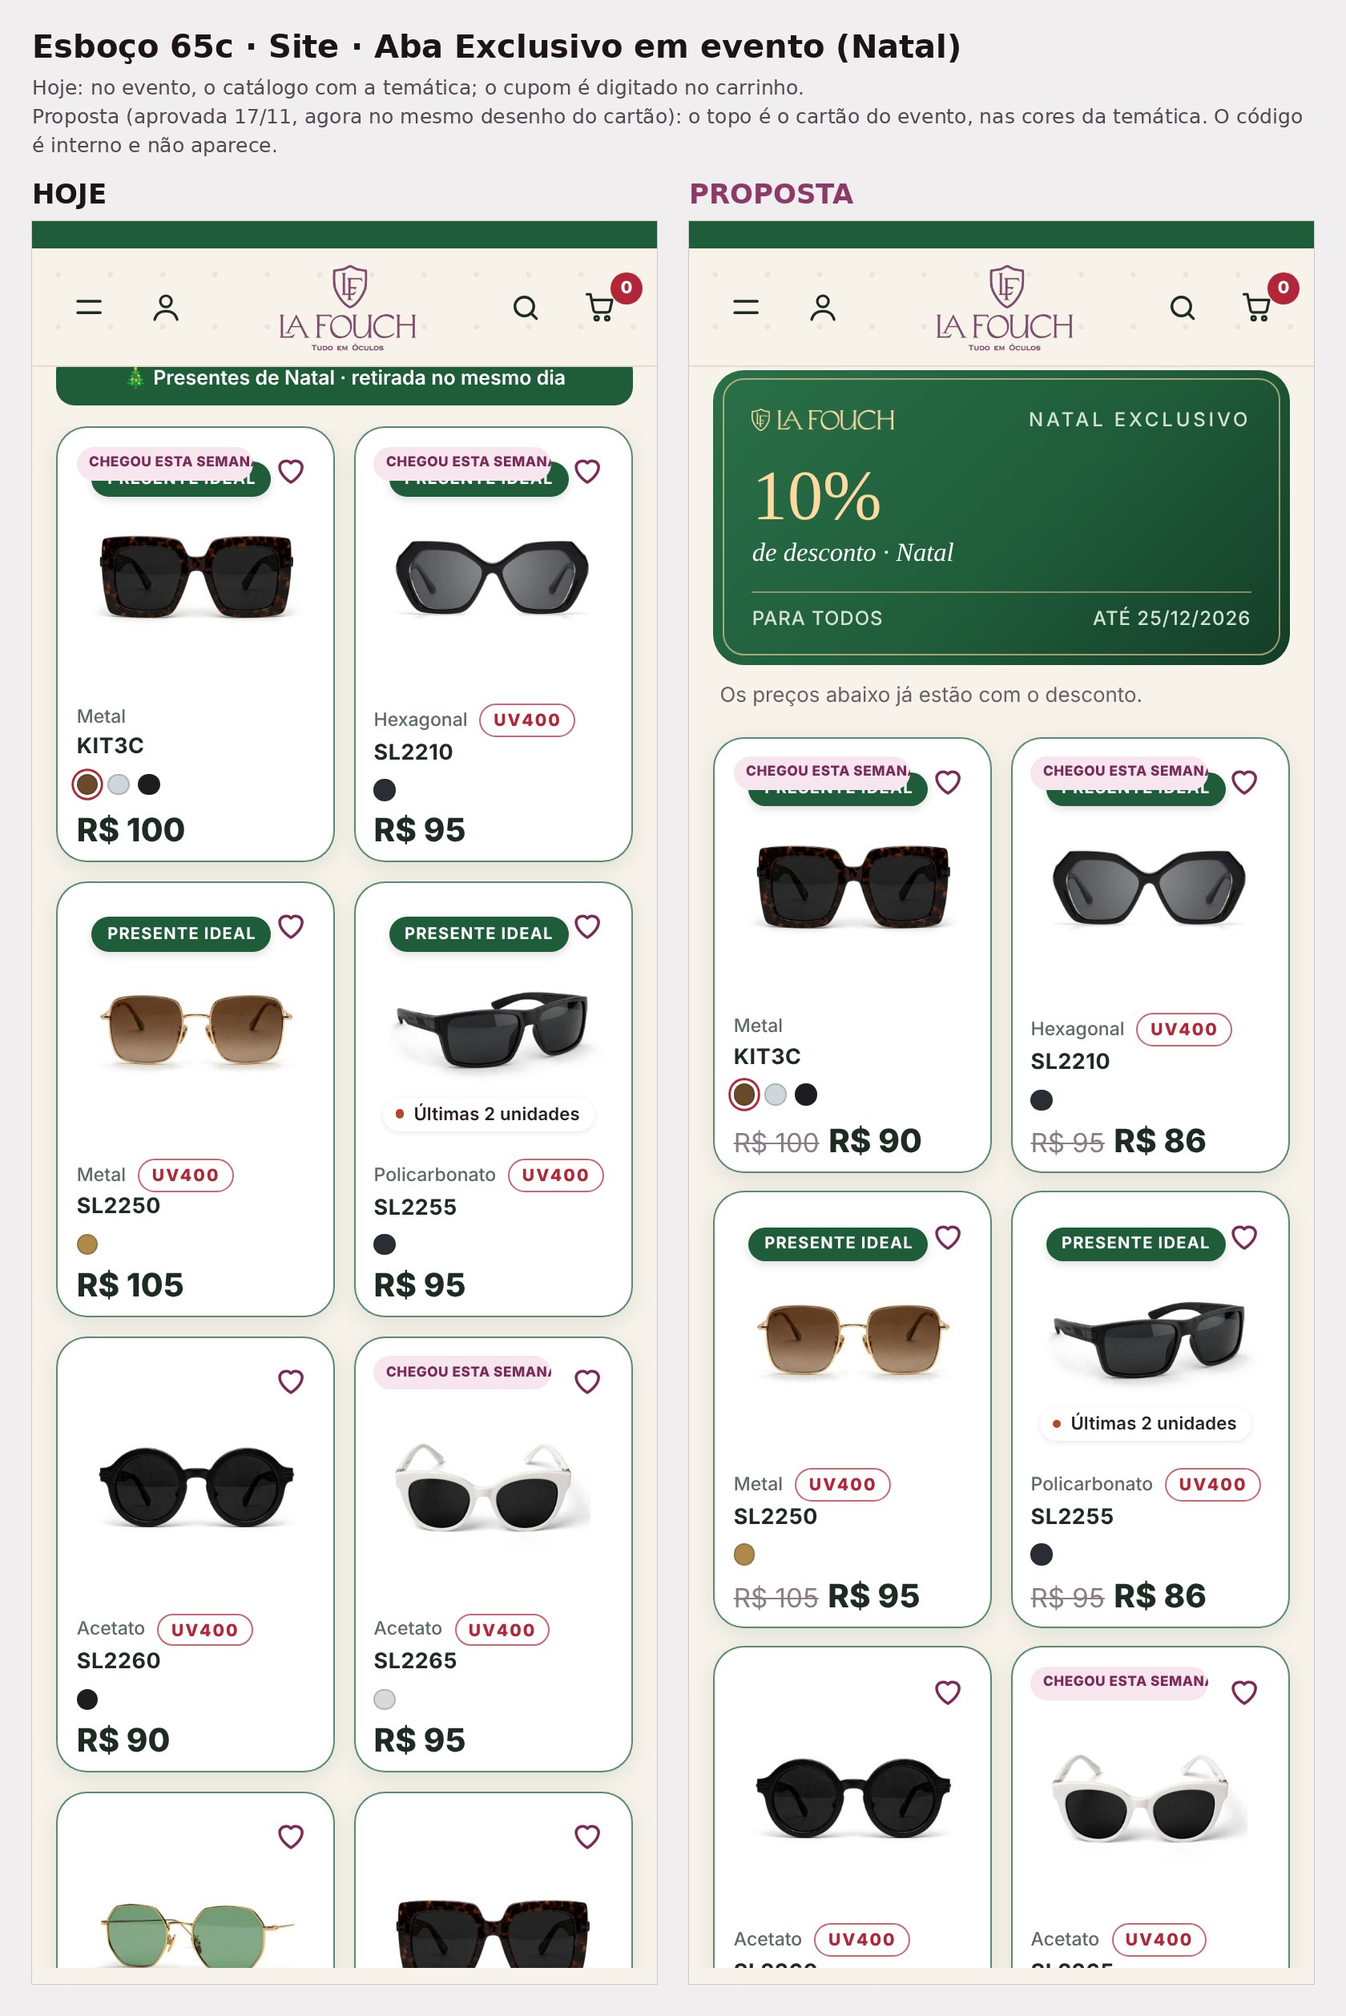
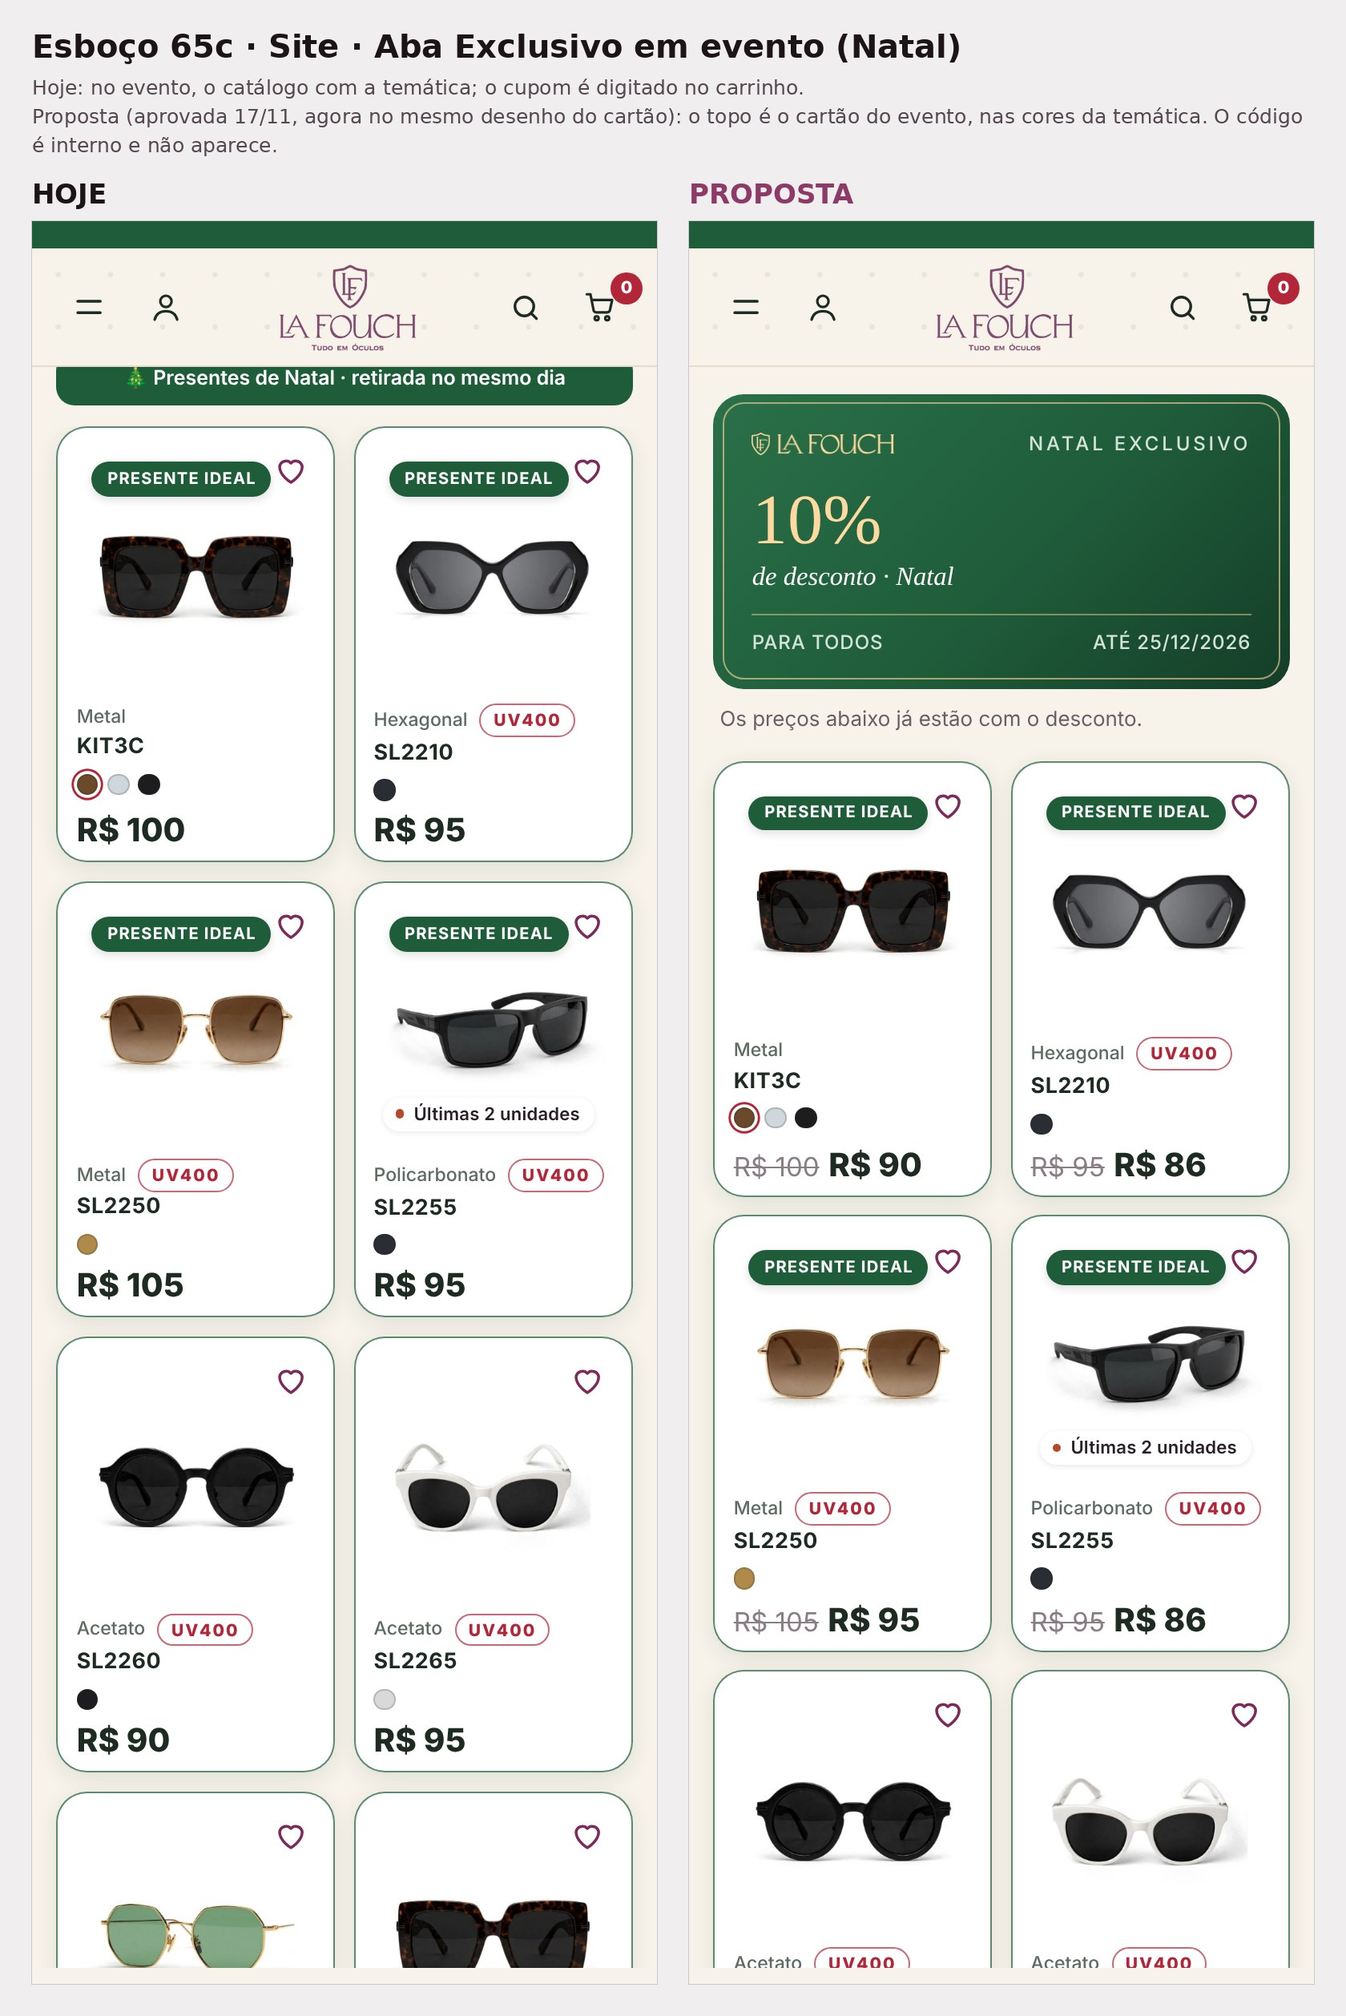
Esboços 66a–66f: prateleira Exclusivo, vários cupons, cupom aplicado sozinho, casos do carrinho
Claude-Session: https://claude.ai/code/session_01Vj5GPR2QjandaFr6ascRKC

diff --git a/work/s401/esb5.py b/work/s401/esb5.py
@@ -1,0 +1,41 @@
+# S401 · esboços 66a–66f (17/11/2026, pedido do dono 09:14): prateleira "Exclusivo" no Início, vários cupons na aba (fileira "Seus cartões"),
+# cupom aplicado sozinho pela Exclusivo e os casos do carrinho. Site real (cópia do kit), celular; só injeta o que muda. Nada implementado.
+import inspect
+E=open('/home/claude/lafouch/work/s401/esb4.py').read();exec(E[:E.index('ABRE_MENU=')])
+G="background:#3a1830;background-image:linear-gradient(135deg,#55234a 0%,#33152b 55%,#1f0d1a 100%)"
+CSS+=""".exs h2 i{display:inline-block;vertical-align:middle;margin-left:10px;padding:3px 10px;border-radius:999px;@G@;border:1px solid rgba(214,178,116,.6);font:500 14px Fraunces,Georgia,serif;font-style:normal;color:#e9d3a6}
+.hp s{font-weight:400;color:#8a7d84;margin-right:6px;font-size:.82em}
+.exh.pre{background:#17121a;background-image:linear-gradient(135deg,#2b2330 0%,#17121a 55%,#0c090e 100%)}.exh.pre>div{border-color:rgba(214,178,116,.75)}.exh.pre strong{font-size:30px;line-height:1.15;margin-top:14px}
+.exr{margin:-6px 0 16px}.exr small{display:block;font:500 12.5px Inter,system-ui,sans-serif;letter-spacing:.12em;color:#6b5f66;margin:0 4px 8px}.exr div{display:flex;gap:8px}
+.exr button{flex:1;min-width:0;min-height:52px;padding:6px 8px;border-radius:12px;border:1px solid rgba(214,178,116,.6);color:#fff;font:500 17px/1.1 Fraunces,Georgia,serif;text-align:left}
+.exr button i{display:block;font:italic 12.5px Fraunces,Georgia,serif;color:#e6d9df;margin-top:3px;white-space:nowrap;overflow:hidden;text-overflow:ellipsis}
+.exr .v{@G@}.exr .n{background:#1f5c3a;background-image:linear-gradient(135deg,#2a7049 0%,#1f5c3a 55%,#143d27 100%)}.exr .p{background:#17121a;background-image:linear-gradient(135deg,#2b2330 0%,#17121a 55%,#0c090e 100%)}
+.exr button.on{outline:2px solid #a9854a;outline-offset:3px}
+.card .pr .gp{display:inline-block;padding:3px 10px;border-radius:999px;background:#17121a;color:#e9d3a6;font:600 13px Inter,system-ui,sans-serif;letter-spacing:.04em}""".replace('@G@',G)
+PRAT="""()=>{const h=document.querySelector('.hsh.hsh1'),g=h.nextElementSibling;const h2=h.cloneNode(true),g2=g.cloneNode(true);h2.classList.add('exs');h2.querySelector('h2').innerHTML='Exclusivo<i>10%</i>';const lk=h2.querySelector('a');lk.style.cssText='display:inline-flex;align-items:center;min-height:44px';
+ [...g2.querySelectorAll('.hc')].forEach((c,i)=>{if(i>3){c.remove();return}const p=c.querySelector('.hp');const m=/([\\d.]+)/.exec(p.textContent);if(!m)return;const v=+m[1].replace(/\\./g,'');p.innerHTML='<s>'+p.textContent.trim()+'</s>'+p.textContent.trim().replace(m[1],String(Math.round(v*.9)))});
+ h.parentNode.insertBefore(h2,h);h.parentNode.insertBefore(g2,h)}"""
+VERP="""(sel)=>{const h=document.querySelector(sel);h.scrollIntoView({block:'start'});let hb=document.querySelector('.top').getBoundingClientRect().bottom;[...document.querySelectorAll('body *')].forEach(e=>{const st=getComputedStyle(e);if(st.position==='fixed'||st.position==='sticky'){const r=e.getBoundingClientRect();if(r.top<=60&&r.height<260&&r.width>300)hb=Math.max(hb,r.bottom)}});window.scrollBy(0,-hb-34)}"""
+ABA2="""(m)=>{const LGO=window.__lgo,LGN=window.__lgn;const s=document.getElementById('vitrine'),g=document.getElementById('grid');[...s.children].forEach(e=>{if(e!==g&&!e.contains(g))e.style.display='none'});
+ const h=document.createElement('div');h.className='exh'+(m===1?' nat':m===2?' pre':'');
+ h.innerHTML='<div><img src="'+(m===1?LGN:LGO)+'" alt="La Fouch"><small>'+(m===1?'NATAL EXCLUSIVO':m===2?'PRESENTE ESPECIAL':'EXCLUSIVO')+'</small><strong>'+(m===2?'Um óculos de presente':'10%')+'</strong><em>'+(m===1?'de desconto · Natal':m===2?'na sua próxima compra':'nas peças desta página')+'</em><hr><p><span>'+(m===1?'PARA TODOS':'MARÍA GONZÁLEZ')+'</span><span>'+(m===1?'ATÉ 25/12/2026':m===2?'ATÉ 17/03/2027':'ATÉ 14/03/2027')+'</span></p></div>';g.parentNode.insertBefore(h,g);
+ const r=document.createElement('div');r.className='exr';r.innerHTML='<small>SEUS CARTÕES</small><div><button type="button" class="v'+(m===0?' on':'')+'">10%<i>cartão presente</i></button><button type="button" class="n'+(m===1?' on':'')+'">10%<i>Natal</i></button><button type="button" class="p'+(m===2?' on':'')+'">✦<i>óculos de presente</i></button></div>';g.parentNode.insertBefore(r,g);
+ const o=document.createElement('p');o.className='exo';o.style.margin='0 4px 16px';o.textContent=m===2?'Compre um óculos e escolha um destes de presente. Vale um cartão por compra.':'Os preços abaixo já estão com o desconto. Vale um cartão por compra.';g.parentNode.insertBefore(o,g);
+ [...g.querySelectorAll('.card')].forEach(c=>{const p=c.querySelector('.pr');if(!p)return;if(m===2){p.innerHTML='<span class="gp">✦ Presente</span>';return}const x=/([\\d.]+)/.exec(p.textContent);if(!x)return;const v=+x[1].replace(/\\./g,'');p.innerHTML='<s>'+p.textContent.trim()+'</s>'+p.textContent.trim().replace(x[1],String(Math.round(v*.9)))});
+ const rc=getComputedStyle(g.querySelector('.card')).borderRadius;h.style.setProperty('--rc',rc);h.scrollIntoView({block:'start'});let hb=document.querySelector('.top').getBoundingClientRect().bottom;[...document.querySelectorAll('body *')].forEach(e=>{const st=getComputedStyle(e);if(st.position==='fixed'||st.position==='sticky'){const q=e.getBoundingClientRect();if(q.top<=60&&q.height<260&&q.width>300)hb=Math.max(hb,q.bottom)}});window.scrollBy(0,h.getBoundingClientRect().top-hb-16);const sp=document.createElement('div');sp.style.cssText='height:44px';h.parentNode.insertBefore(sp,h);const sc=document.getElementById('vscr');const fl=hb+18-h.getBoundingClientRect().top;if(fl>0&&sc)sc.scrollTop-=fl;return [hb,h.getBoundingClientRect().top]}"""
+AUTO="""()=>{const d=document.querySelector('#layer .exc');d.innerHTML='<span><i>✦</i>Cartão de 10% aplicado</span><span style="font-weight:600;color:#1f8f4e">− R$ 10</span>';const n=document.createElement('p');n.className='exn';n.innerHTML='O seu cartão entrou sozinho porque a peça veio da Exclusivo. <a href="#">Guardar para outra compra ›</a>';document.querySelector('#layer .cl').appendChild(n);const t=document.querySelector('#layer .cs-t b');if(t)t.textContent='R$ 90'}"""
+LEVE="""()=>{const d=document.querySelector('#layer .exc');d.innerHTML='<span style="color:#1d1418"><i>✦</i>Leve 2 aplicado</span><span style="font-weight:600;color:#1f8f4e">− R$ 28</span>';const n=document.createElement('p');n.className='exn';n.innerHTML='Este carrinho tem “Leve 2”, que não soma com o cartão. Entrou o maior desconto; o seu cartão de 10% continua guardado.';document.querySelector('#layer .cl').appendChild(n);const t=document.querySelector('#layer .cs-t b');if(t)t.textContent='R$ 72'}"""
+with sync_playwright() as pw:
+    par('p',lambda:site(pw),"()=>{}",[PRAT,(VERP,'.exs')],1000)
+    par('q',lambda:site(pw,'natal'),VIT,[(ABA2,0)],1150)
+    par('r',lambda:site(pw,'natal'),VIT,[(ABA2,1)],1150)
+    par('s',lambda:site(pw,'natal'),VIT,[(ABA2,2)],1150)
+    par('t',lambda:carrinho(pw),None,[CAR1,AUTO])
+    par('u',lambda:carrinho(pw),None,[CAR1,LEVE])
+P=comum.prancha
+P('66a-site-inicio-prateleira-exclusivo.jpg','Esboço 66a · Site · Início · prateleira "Exclusivo"',['Hoje: o Início começa as prateleiras em "Novidades".','Proposta: quem tem cupom valendo vê "Exclusivo" como a primeira prateleira, igual às outras, com os preços já com desconto. "Ver todos ›" abre a aba. Sai a entrada do menu (65a).'],T+'p_h.png',T+'p_p.png')
+P('66b-site-exclusivo-varios-cartoes.jpg','Esboço 66b · Site · Aba Exclusivo com mais de um cupom',['Hoje: catálogo comum (aqui, em época de Natal).','Proposta: a aba mostra UM cartão ativo (abre no de maior desconto) e a fileira "Seus cartões" para trocar. Vale um cartão por compra.'],T+'q_h.png',T+'q_p.png')
+P('66c-site-exclusivo-trocou-para-o-evento.jpg','Esboço 66c · Site · Aba Exclusivo · tocou no cartão do Natal',['Hoje: catálogo comum.','Proposta: ao tocar em outro cartão, o topo vira o cartão escolhido (cores da temática) e os preços passam a ser os dele.'],T+'r_h.png',T+'r_p.png')
+P('66d-site-exclusivo-oculos-de-presente.jpg','Esboço 66d · Site · Aba Exclusivo · tocou em "óculos de presente"',['Hoje: catálogo comum.','Proposta: o presente da 5ª indicação é um dos cartões. A aba mostra as peças que podem ser o presente; ele compra um óculos e escolhe um destes.'],T+'s_h.png',T+'s_p.png')
+P('66e-site-carrinho-cupom-entrou-sozinho.jpg','Esboço 66e · Site · Carrinho · peça veio da Exclusivo',['Hoje: "Tem um código?" — nada é aplicado sem digitar.','Proposta: a peça adicionada pela Exclusivo já chega com o cartão aplicado. Uma linha explica e oferece "Guardar para outra compra".'],T+'t_h.png',T+'t_p.png')
+P('66f-site-carrinho-leve-2-e-cartao.jpg','Esboço 66f · Site · Carrinho · “Leve 2” e cartão juntos',['Hoje: vale o maior desconto, mas o carrinho não explica.','Proposta: o carrinho diz qual desconto entrou e que o cartão continua guardado. (Valores de exemplo.)'],T+'u_h.png',T+'u_p.png')

diff --git a/work/s401/esb4.py b/work/s401/esb4.py
@@ -27,7 +27,7 @@ ABA="""(nat)=>{const LGO=window.__lgo,LGN=window.__lgn;const s=document.getEleme
  h.innerHTML='<div><img src="'+lg+'" alt="La Fouch"><small>'+(nat?'NATAL EXCLUSIVO':'EXCLUSIVO')+'</small><strong>10%</strong><em>'+(nat?'de desconto · Natal':'nas peças desta página')+'</em><hr><p><span>'+(nat?'PARA TODOS':'MARÍA GONZÁLEZ')+'</span><span>'+(nat?'ATÉ 25/12/2026':'ATÉ 14/03/2027')+'</span></p></div>';g.parentNode.insertBefore(h,g);
  const o=document.createElement('p');o.className='exo';o.textContent='Os preços abaixo já estão com o desconto.';g.parentNode.insertBefore(o,g);
  [...g.querySelectorAll('.card')].forEach(c=>{const p=c.querySelector('.pr');if(!p)return;if(c.querySelector('.sel1.of,.of')||/OFERTA/i.test(c.textContent)){c.style.display='none';return}const m=/([\\d.]+)/.exec(p.textContent);if(!m)return;const v=+m[1].replace(/\\./g,'');p.innerHTML='<s>'+p.textContent.trim()+'</s>'+p.textContent.trim().replace(m[1],String(Math.round(v*.9)))});
- const rc=getComputedStyle(g.querySelector('.card')).borderRadius;h.style.setProperty('--rc',rc);h.scrollIntoView({block:'start'});const tp=document.querySelector('.top').getBoundingClientRect().bottom;let hb=tp;[...document.querySelectorAll('body *')].forEach(e=>{const st=getComputedStyle(e);if(st.position==='fixed'||st.position==='sticky'){const r=e.getBoundingClientRect();if(r.top<=2&&r.height<260&&r.width>300)hb=Math.max(hb,r.bottom)}});window.scrollBy(0,h.getBoundingClientRect().top-hb-16);const fl=hb+16-h.getBoundingClientRect().top;if(fl>0)h.style.marginTop=fl+'px';return [g.getBoundingClientRect().width,g.querySelectorAll('.card').length]}"""
+ const rc=getComputedStyle(g.querySelector('.card')).borderRadius;h.style.setProperty('--rc',rc);h.scrollIntoView({block:'start'});const tp=document.querySelector('.top').getBoundingClientRect().bottom;let hb=tp;[...document.querySelectorAll('body *')].forEach(e=>{const st=getComputedStyle(e);if(st.position==='fixed'||st.position==='sticky'){const r=e.getBoundingClientRect();if(r.top<=60&&r.height<260&&r.width>300)hb=Math.max(hb,r.bottom)}});window.scrollBy(0,h.getBoundingClientRect().top-hb-16);const sp=document.createElement('div');sp.style.cssText='height:44px';h.parentNode.insertBefore(sp,h);const sc=document.getElementById('vscr');const fl=hb+18-h.getBoundingClientRect().top;if(fl>0&&sc)sc.scrollTop-=fl;return [g.getBoundingClientRect().width,g.querySelectorAll('.card').length]}"""
 FAIXA="""()=>{const t=document.querySelector('.top');const d=document.createElement('div');d.className='exb';d.innerHTML='<div><span><i>10%</i>seu cartão está ativo</span><b>VER EXCLUSIVO ›</b></div>';const c=[...document.querySelectorAll('main *')].find(e=>{const r=e.getBoundingClientRect(),st=getComputedStyle(e);return r.width>300&&r.width<380&&r.height>200&&parseFloat(st.borderRadius)>10});const r=(c||t).getBoundingClientRect();d.style.setProperty('--mg',Math.max(12,Math.round(r.left))+'px');t.parentNode.insertBefore(d,t.nextSibling)}"""
 CAR1="""()=>{const c=document.querySelector('#layer .cupf');const d=document.createElement('div');d.className='exc';d.innerHTML='<span><i>✦</i>Você tem um cartão de 10%</span><button type="button">Usar</button>';c.parentNode.insertBefore(d,c);c.remove()}"""
 CAR2="""()=>{const d=document.querySelector('#layer .exc');d.innerHTML='<span><i>✦</i>Cartão de 10% aplicado</span><span style="font-weight:600;color:#1f8f4e">− R$ 10</span>';const n=document.createElement('p');n.className='exn';n.innerHTML='A peça SL2250 está em OFERTA e não entra no cartão. <a href="#">Ver peças do Exclusivo ›</a>';document.querySelector('#layer .cl').appendChild(n);const t=document.querySelector('#layer .cs-t b');if(t)t.textContent='R$ 90'}"""
@@ -49,7 +49,7 @@ def par(nome,abre,antes,depois,H=844):
     b,pg,w=abre()
     if antes: pg.evaluate(antes);w(1600)
     for d in depois:
-        if isinstance(d,tuple): pg.evaluate(d[0],d[1])
+        if isinstance(d,tuple): print('   ',pg.evaluate(d[0],d[1]))
         else: pg.evaluate(d)
         w(500)
     pg.set_viewport_size({'width':390,'height':H});w(400);op=comum.olho(pg);pg.screenshot(path=T+nome+'_p.png');b.close();print(nome,'falhas novas:',sorted(op-oh)[:4],[x for x in oh if 'barras' in x])

diff --git a/work/s401/explora4.py b/work/s401/explora4.py
@@ -1,0 +1,7 @@
+import sys;sys.path.insert(0,'/home/claude/lafouch/work/s395');sys.path.insert(0,'/home/claude/lafouch/work/s349')
+import comum2
+from playwright.sync_api import sync_playwright
+with sync_playwright() as pw:
+    b,pg,w=comum2.site(pw)
+    print(pg.evaluate("()=>{const h=document.querySelector('.hsh.hsh1');const p=h.parentElement;return [p.tagName+'#'+p.id+'.'+p.className,[...p.children].map(e=>e.tagName+'#'+e.id+'.'+e.className+':'+e.children.length).slice(0,14),h.outerHTML.slice(0,400),h.nextElementSibling.outerHTML.replace(/<svg.*?<\\/svg>/gs,'').replace(/src=\"[^\"]*\"/g,'').slice(0,900)]}"))
+    b.close()

diff --git a/docs/FALTA-APROVAR-15-11.md b/docs/FALTA-APROVAR-15-11.md
@@ -348,3 +348,4 @@ Não são esquecimento (estavam na lista, parados de propósito ou por ordem do 
 - 17/11 09:03–09:06 — DONO: (1) perguntou se não é mais fácil a Exclusivo aparecer como Novidades/Mais vendidos → proposto e bem recebido: PRATELEIRA "Exclusivo" no Início (1ª prateleira, só para quem tem cupom valendo; "Ver todos ›" abre a aba 65b); (2) ideia dele para não brigar com Ofertas: o cupom é aplicado, o cliente recebe um AVISO de que há peça em que o cupom não vale, e o desconto entra só nas peças que aceitam → concordo; CONFERIDO no código (cupInfo/cupPeca): o cupom JÁ é calculado por peça e não entra em peça em OFERTA; falta só o aviso (é o esboço 65f, aprovado). Com "Leve 2" hoje vale o maior desconto do carrinho inteiro (um ou outro). (3) Com a prateleira, **TIRAR a entrada "Exclusivo" do menu (65a RETIRADO pelo dono: "escandaloso")**. Falta esboço da prateleira no Início; nada implementado.
 - 17/11 09:10 — DONO: o cupom deve ser APLICADO AUTOMATICAMENTE — (a) "Usar agora" em Minha conta leva à aba Exclusivo e aplica; (b) visitar a aba Exclusivo e adicionar peças de lá também aplica sozinho. Concordei e propus completar: com cupom valendo o carrinho já abre com "Cartão de 10% aplicado" (o "Usar" do 65e deixa de ser necessário) + uma saída "Guardar para outra compra" (o cartão é de 1 uso; aplicar sozinho numa compra pequena gastaria o cartão sem o cliente querer); com dois cupons (cartão pessoal + evento) entra o de maior desconto. ESPERANDO ele confirmar esses dois pontos; depois esboço da prateleira e do carrinho. Nada implementado.
 - 17/11 09:13 — DONO: peça adicionada pelo catálogo COMUM (fora da Exclusivo) → só SUGERIR o cupom no carrinho (o 65e "Você tem um cartão · Usar"), não aplicar sozinho, porque o cliente pode estar guardando o cupom. Pela Exclusivo continua aplicando sozinho. Perguntou: com MAIS DE UM cupom disponível, como fica a Exclusivo? PROPOSTA minha (esperando decisão): a Exclusivo mostra um cupom por vez; no topo, o cartão ativo e, se houver outros, uma fileira "Seus cartões" para trocar (a página muda de cor e de preços); por padrão abre no de maior desconto (empate: o que vence primeiro); continua valendo um cupom por compra; o presente "segundo óculos" entra como um dos cartões. Nada implementado.
+- 17/11 09:14 — DONO pediu esboço de TODAS as propostas e possibilidades → ESBOÇOS 66a–66f enviados, ESPERANDO decisão (work/s401/esb5.py; nada implementado): 66a Início com a prateleira "Exclusivo" (1ª prateleira, igual às outras, preço com desconto; substitui a entrada do menu 65a) · 66b aba Exclusivo com mais de um cupom (um cartão ativo + fileira "Seus cartões") · 66c tocou no cartão do Natal (topo e preços trocam) · 66d tocou em "óculos de presente" (peças que podem ser o presente) · 66e carrinho com a peça vinda da Exclusivo: cartão aplicado sozinho + "Guardar para outra compra" · 66f carrinho com "Leve 2" e cartão (entra o maior; o cartão fica guardado). O caso "peça adicionada pelo catálogo comum → o carrinho só SUGERE o cartão" é o 65e, e "peça em OFERTA no carrinho" é o 65f (os dois já aprovados). 65c corrigido: respiro entre o cartão e o cabeçalho (o catálogo rola dentro de #vscr — a aba precisa de espaço no topo ao implementar). Inspetor: 66b–66d sem falha nova; 66e/66f barra fixa 1 px menor que a de hoje; 66a acusou "Ver todos ›" com toque < 24 px (é o mesmo link das prateleiras de hoje; a conferir ao implementar).
